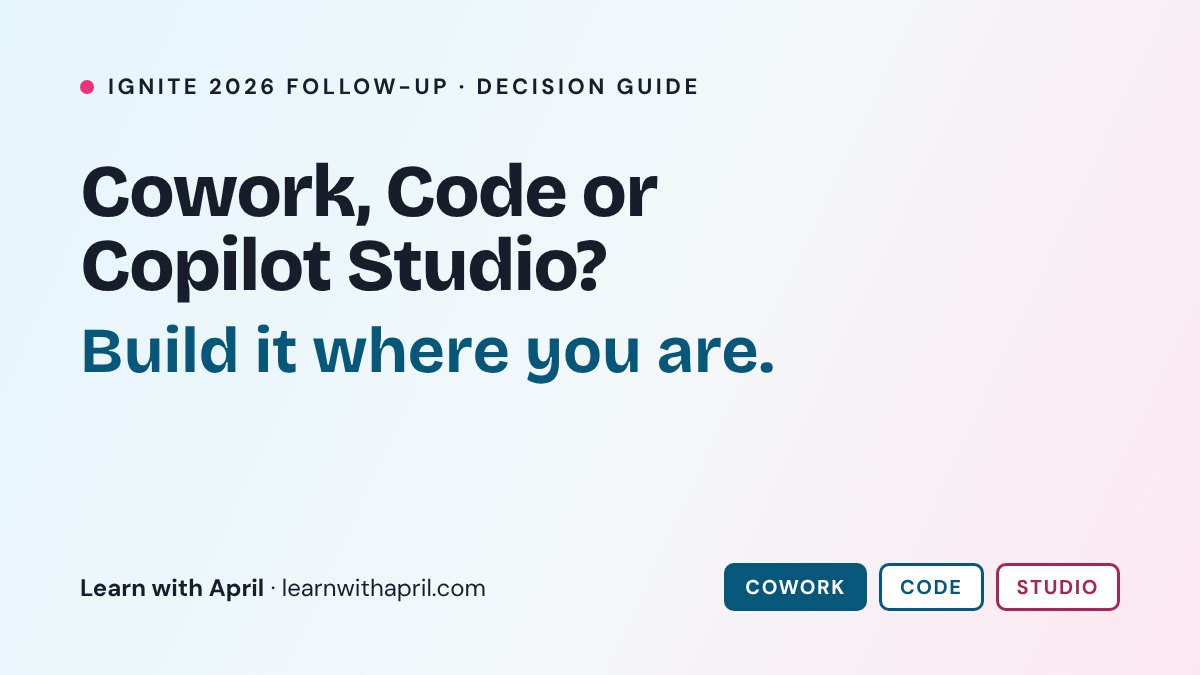
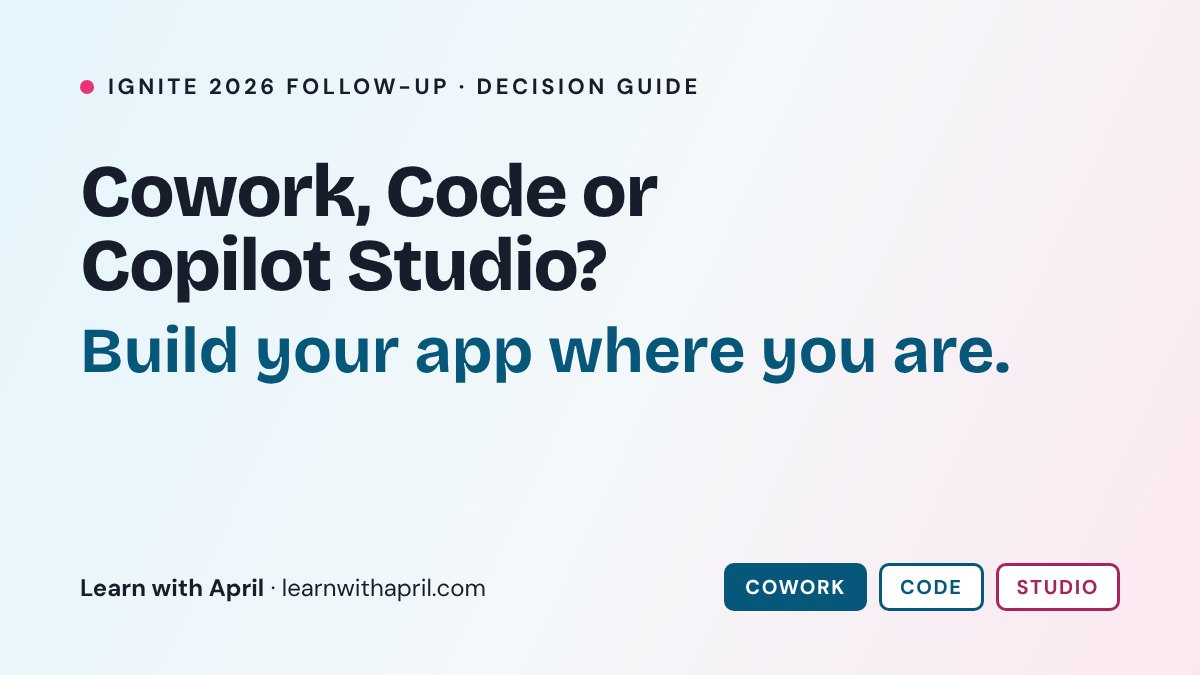
Retitle decision guide around apps; add apps-vs-agents scope line
Claude-Session: https://claude.ai/code/session_01ButWiDb8uM9nPLGWnh8byy

Changed region(s): [[0.2158, 0.4667, 0.8633, 0.5911]]

diff --git a/updates/build-it-where-you-are/index.html b/updates/build-it-where-you-are/index.html
@@ -1,21 +1,21 @@
 <!doctype html>
 <html lang="en"><head><meta charset="utf-8"><script src="/theme.js?v=511a076"></script><meta name="viewport" content="width=device-width,initial-scale=1">
-<title>Cowork, Copilot Code or Copilot Studio? Where to build your next app | Learn with April</title>
-<meta name="description" content="Copilot can build apps from Cowork, Copilot Code and Copilot Studio. Here's how to pick your starting point, with a 1-minute picker and when to move your idea up.">
+<title>Where to build your next app in Copilot (and why Lovable counts too) | Learn with April</title>
+<meta name="description" content="Build apps in Cowork, Copilot Code, Copilot Studio, your coding agent or even Lovable, and run them all in one governed place. Take the 1-minute picker to find your starting point.">
 <link rel="icon" href="/icon.svg" type="image/svg+xml"><link rel="stylesheet" href="/style.css?v=610131">
 <link rel="canonical" href="https://learnwithapril.com/updates/build-it-where-you-are/">
 <link rel="stylesheet" href="/site-chrome.css?v=609092">
 <meta property="og:type" content="article"><meta property="og:site_name" content="Learn with April">
 <meta property="og:url" content="https://learnwithapril.com/updates/build-it-where-you-are/">
-<meta property="og:title" content="Cowork, Copilot Code or Copilot Studio? Where to build your next app">
-<meta property="og:description" content="Three places to build apps in Copilot, one runtime underneath. Take the 1-minute picker to find your starting point.">
+<meta property="og:title" content="Where to build your next app in Copilot (and why Lovable counts too)">
+<meta property="og:description" content="Cowork, Code, Copilot Studio, your coding agent or Lovable. One runtime underneath. Take the 1-minute picker.">
 <meta property="og:image" content="https://learnwithapril.com/assets/img/build-it-where-you-are/cover.jpg">
 <meta property="og:image:width" content="1200"><meta property="og:image:height" content="675">
-<meta property="og:image:alt" content="Cowork, Copilot Code or Copilot Studio? Build it where you are. A decision guide from Learn with April.">
+<meta property="og:image:alt" content="Cowork, Code or Copilot Studio? Build your app where you are. A decision guide from Learn with April.">
 <meta property="article:published_time" content="2026-11-19">
 <meta name="twitter:card" content="summary_large_image"><meta name="twitter:creator" content="@aprildunnam">
 <meta name="twitter:image" content="https://learnwithapril.com/assets/img/build-it-where-you-are/cover.jpg">
-<script type="application/ld+json">{"@context":"https://schema.org","@type":"BlogPosting","headline":"Cowork, Copilot Code or Copilot Studio? Where to build your next app","description":"Copilot can build apps from Cowork, Copilot Code and Copilot Studio. Here's how to pick your starting point, with a 1-minute picker and when to move your idea up.","url":"https://learnwithapril.com/updates/build-it-where-you-are/","image":"https://learnwithapril.com/assets/img/build-it-where-you-are/cover.jpg","datePublished":"2026-11-19","dateModified":"2026-11-19","author":{"@type":"Person","@id":"https://learnwithapril.com/#april","name":"April Dunnam","url":"https://learnwithapril.com/about/"},"publisher":{"@type":"Organization","@id":"https://learnwithapril.com/#org","name":"ThriveFast, LLC"},"about":["Copilot Cowork","Copilot Code","Copilot Studio","Copilot Managed Runtime","Lovable"]}</script>
+<script type="application/ld+json">{"@context":"https://schema.org","@type":"BlogPosting","headline":"Where to build your next app in Copilot (and why Lovable counts too)","description":"Copilot can build apps from Cowork, Copilot Code and Copilot Studio. Here's how to pick your starting point, with a 1-minute picker and when to move your idea up.","url":"https://learnwithapril.com/updates/build-it-where-you-are/","image":"https://learnwithapril.com/assets/img/build-it-where-you-are/cover.jpg","datePublished":"2026-11-19","dateModified":"2026-11-19","author":{"@type":"Person","@id":"https://learnwithapril.com/#april","name":"April Dunnam","url":"https://learnwithapril.com/about/"},"publisher":{"@type":"Organization","@id":"https://learnwithapril.com/#org","name":"ThriveFast, LLC"},"about":["Copilot Cowork","Copilot Code","Copilot Studio","Copilot Managed Runtime","Lovable"]}</script>
 <style>
 .ig{--ig-gap:clamp(18px,3vw,28px)}
 .ig .subhero{background:var(--lwa-hero)}
@@ -149,6 +149,7 @@
 .cmr-lovable h3{font-size:1.6rem;margin:4px 0 10px}
 .cmr-lovable p{line-height:1.6;margin:0}
 @media (max-width:900px){.cmr-grid,.cmr-lovable{grid-template-columns:1fr}}
+.biw-scope{display:inline-block;margin:6px 0 0;padding:10px 16px;border-radius:10px;background:var(--lwa-surface);border:1px solid var(--lwa-line-strong);font-size:1rem}
 </style>
 </head>
 <body class="lwa-main ig ws biw"><a class="skip" href="#main">Skip to content</a>
@@ -156,8 +157,9 @@
 <main id="main">
 <section class="subhero"><div class="wrap">
   <p class="eyebrow"><span></span>IGNITE 2026 FOLLOW-UP · DECISION GUIDE</p>
-  <h1>Cowork, Copilot Code or Copilot Studio? <em>Build it where you are.</em></h1>
-  <p class="lede">You can now build apps from three different places in Copilot, and you're not locked into whichever one you start in. Here's how to pick the right starting point, and when to move your idea somewhere bigger.</p>
+  <h1>Cowork, Copilot Code or Copilot Studio? <em>Build your app where you are.</em></h1>
+  <p class="lede">You can now build apps from three places in Copilot, plus your coding agent or even Lovable, and they all land in the same governed home. Here's how to pick your starting point.</p>
+  <p class="biw-scope"><strong>This guide is about apps.</strong> If you're building an agent, start in Copilot Studio.</p>
   <p class="ig-meta"><span>By <a href="/about/">April Dunnam</a></span><span aria-hidden="true">·</span><time datetime="2026-11-19">November 19, 2026</time><span aria-hidden="true">·</span><span>10 min read</span></p>
   <div class="ig-actions">
     <a class="button primary" href="#picker">Take the 1-minute picker <span aria-hidden="true">↓</span></a>
